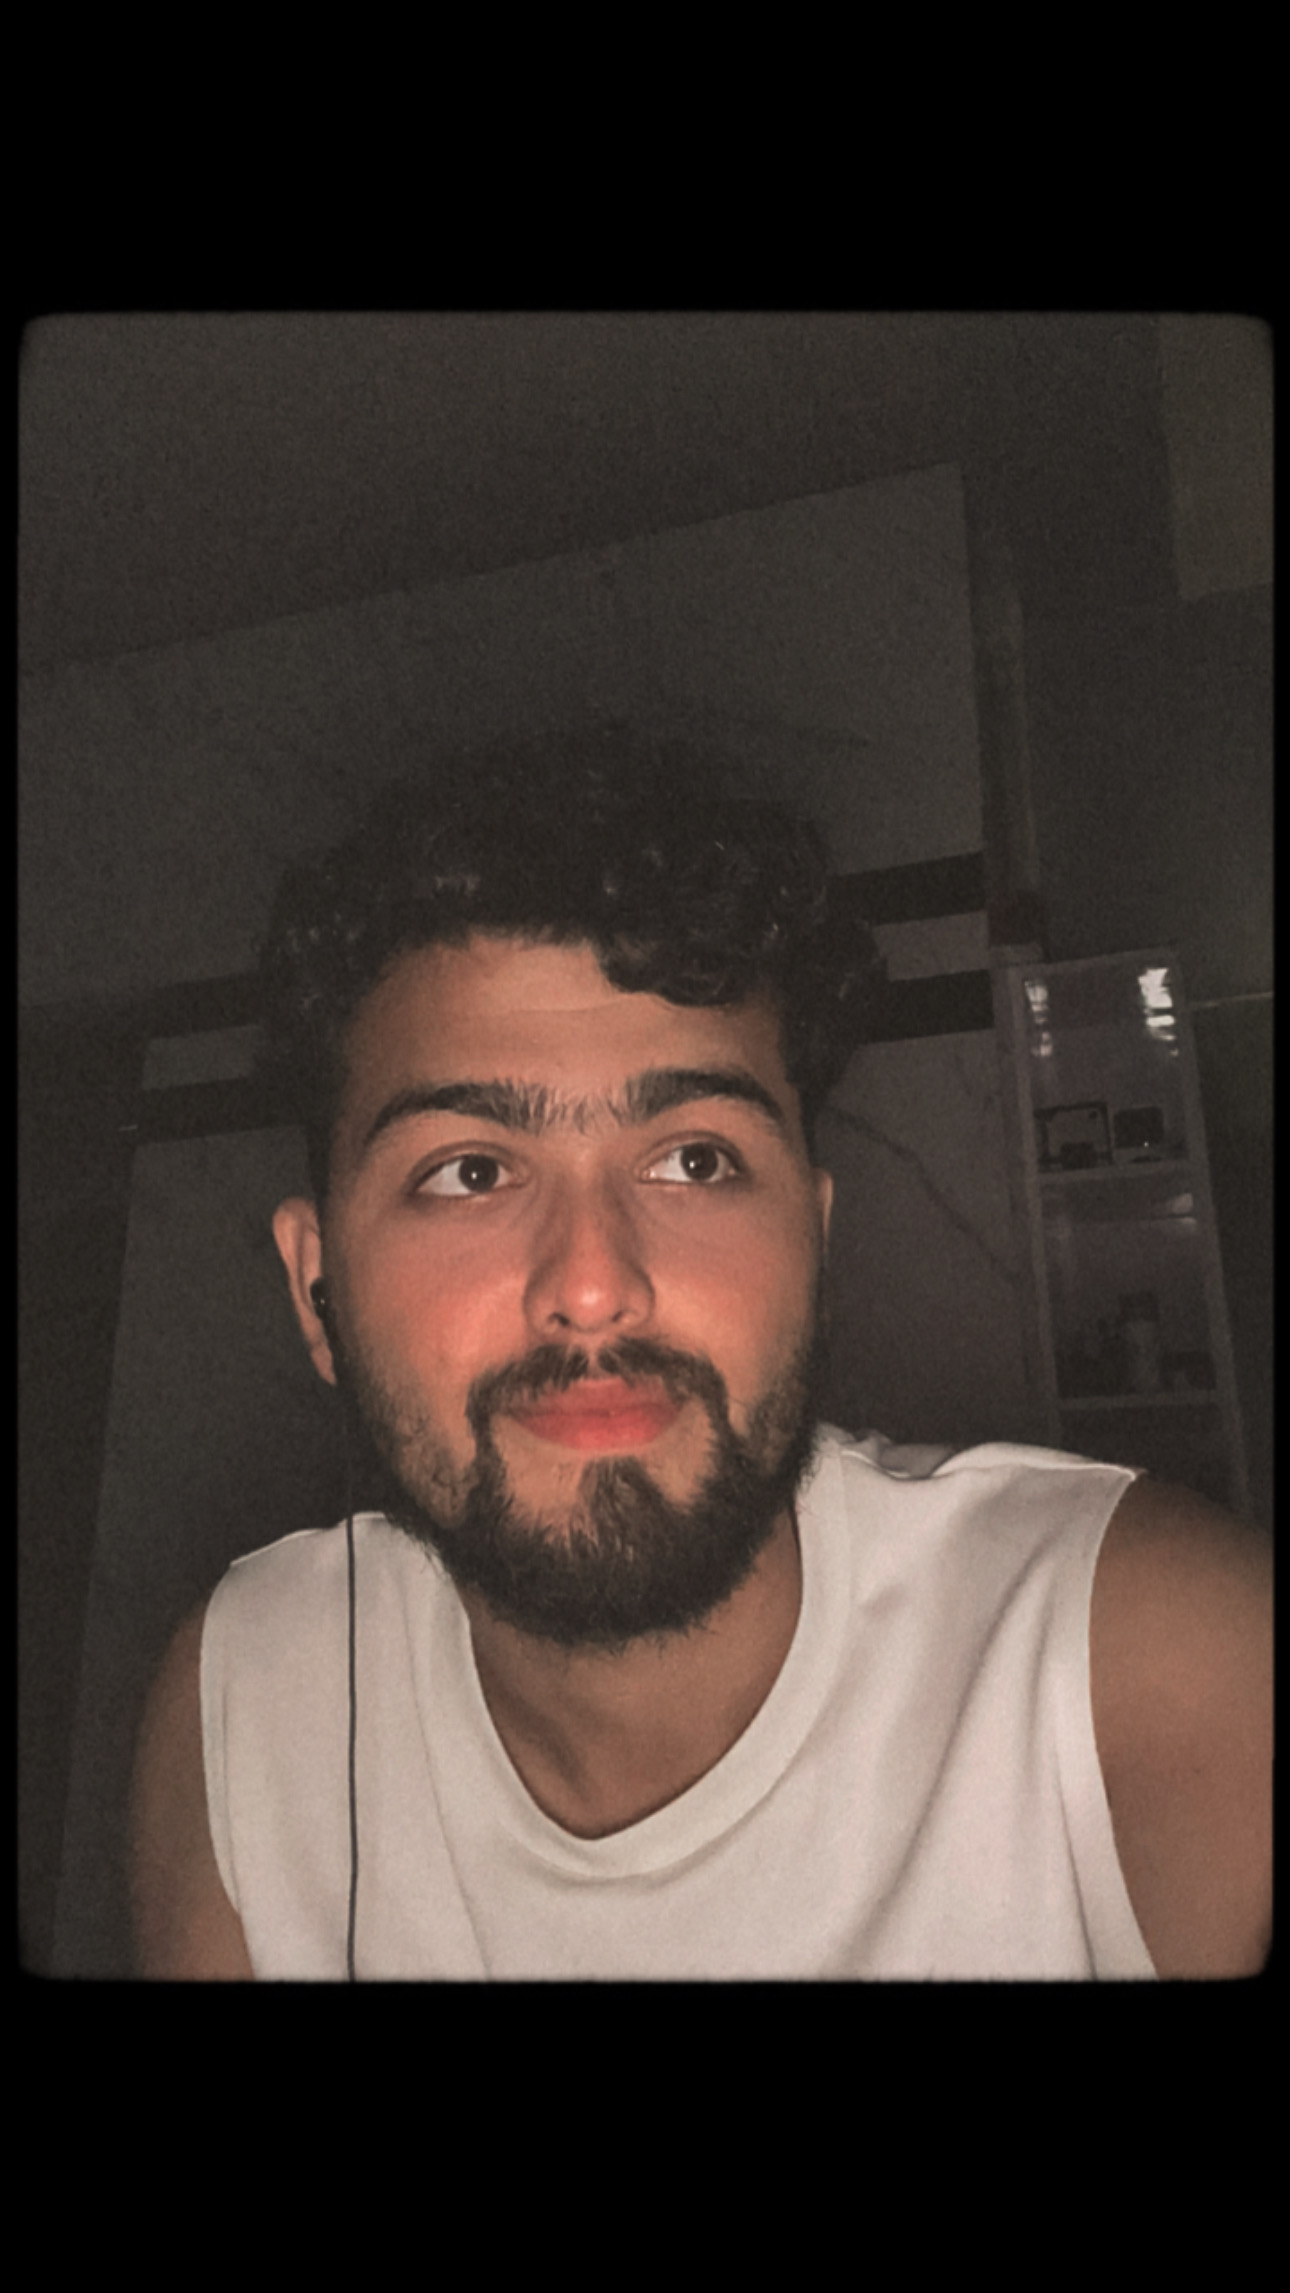
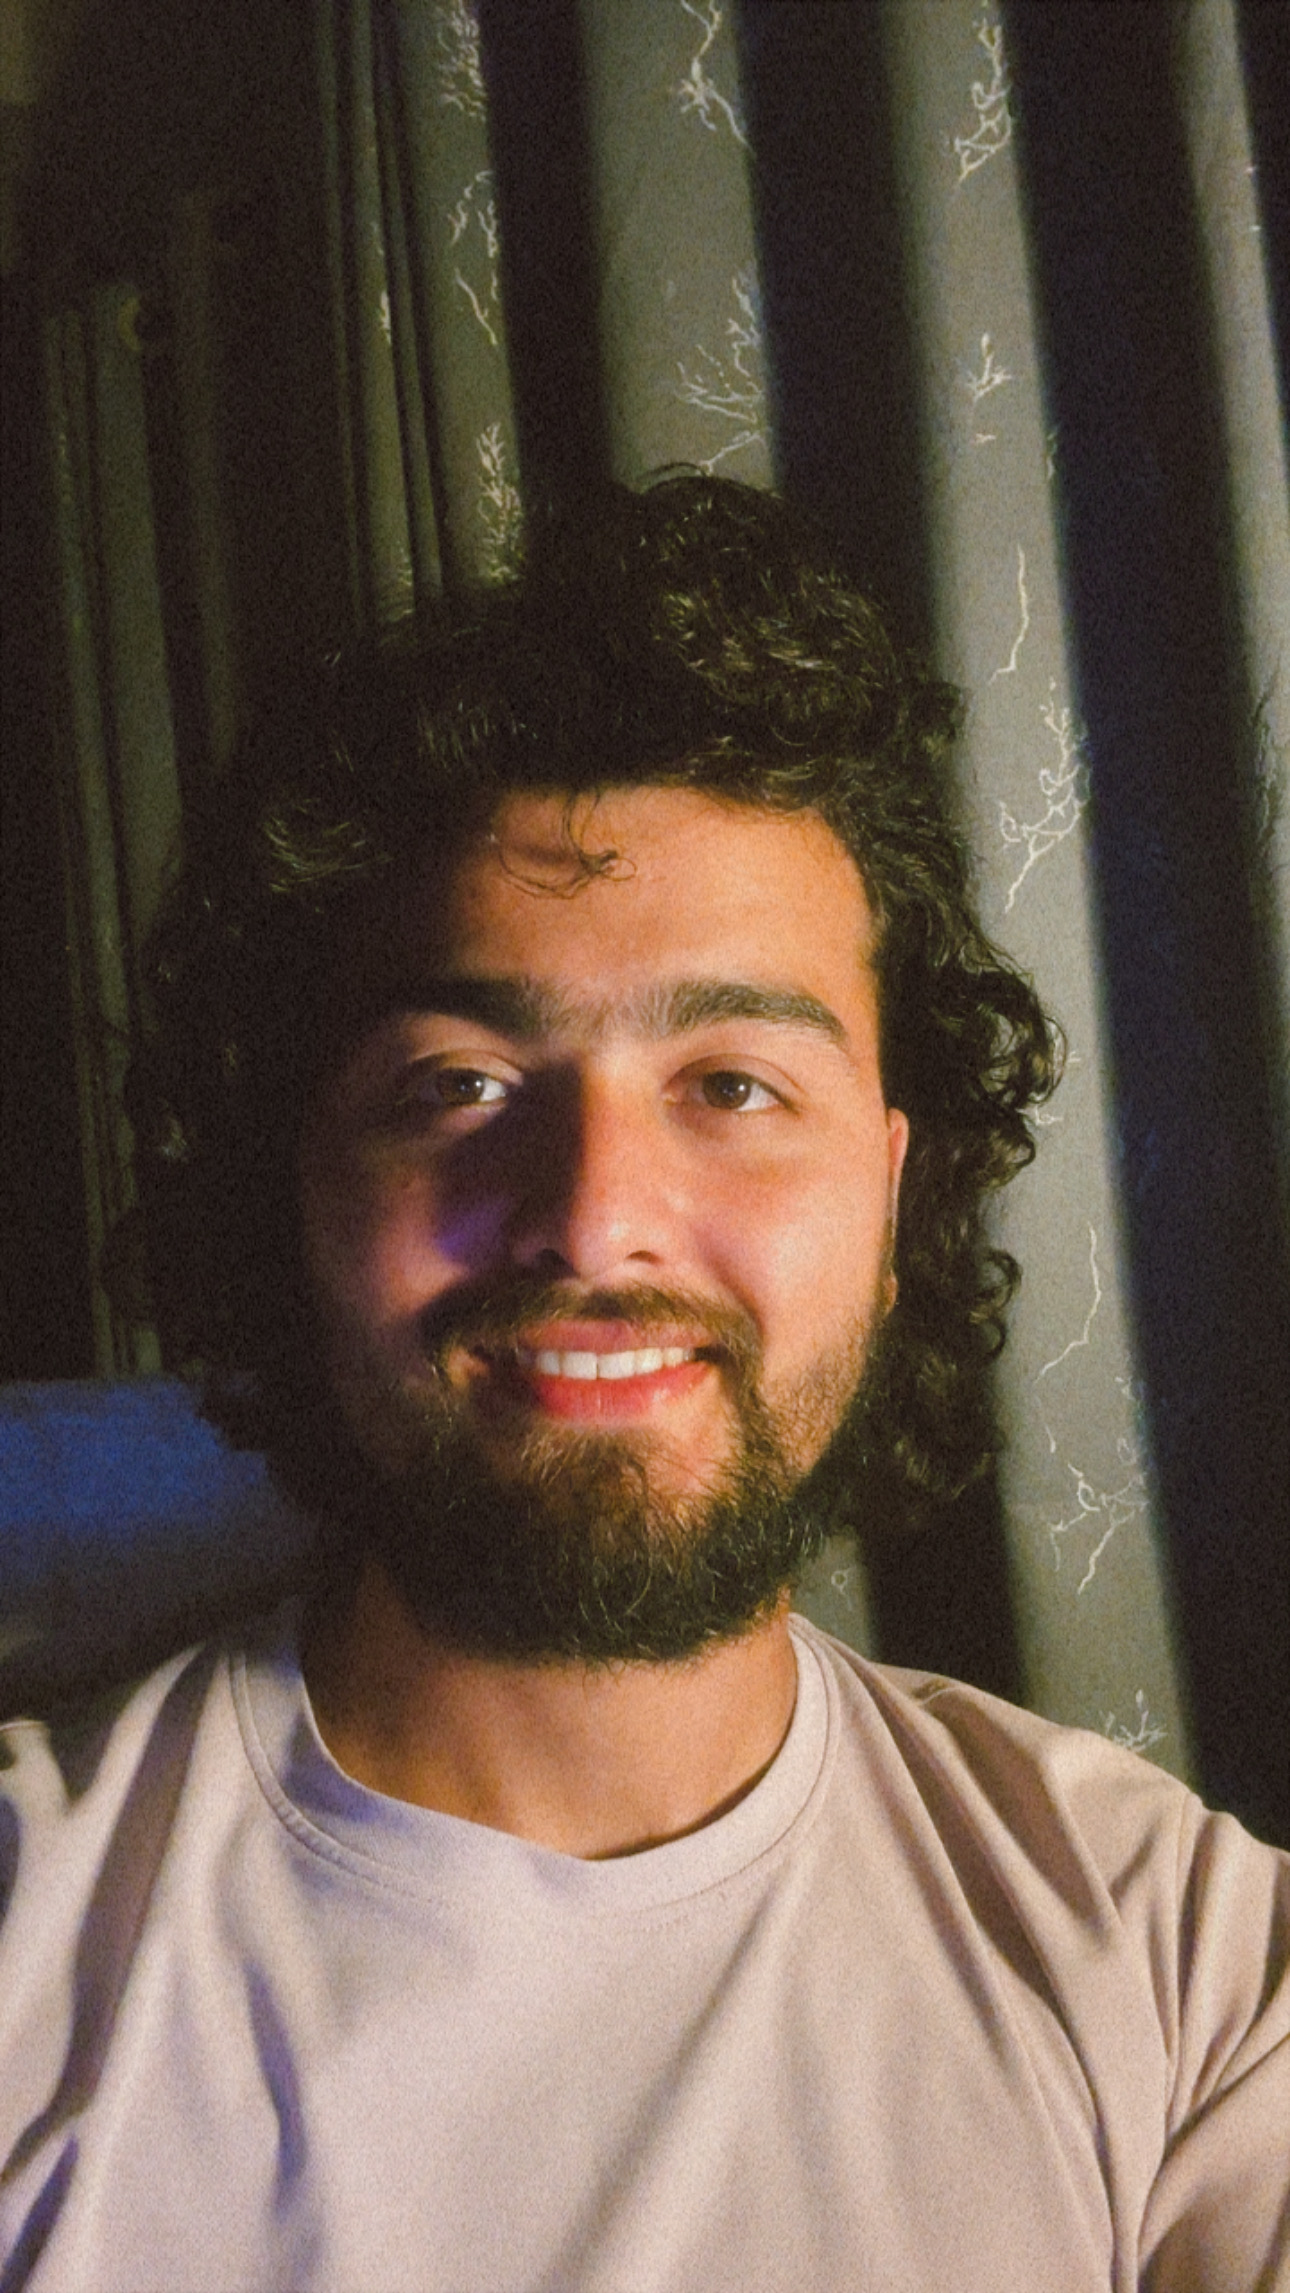
fix: update and change profile image and  path in Hero component for correct loading

diff --git a/src/components/Hero.jsx b/src/components/Hero.jsx
@@ -212,7 +212,7 @@ export default function Hero() {
                 }}
               >
                 <img
-                  src="/profile.jpg"
+                  src="/public/profile.JPG"
                   alt="Basanta Khatri – Frontend Developer"
                   className="w-full h-full object-cover object-center"
                   fetchpriority="high"